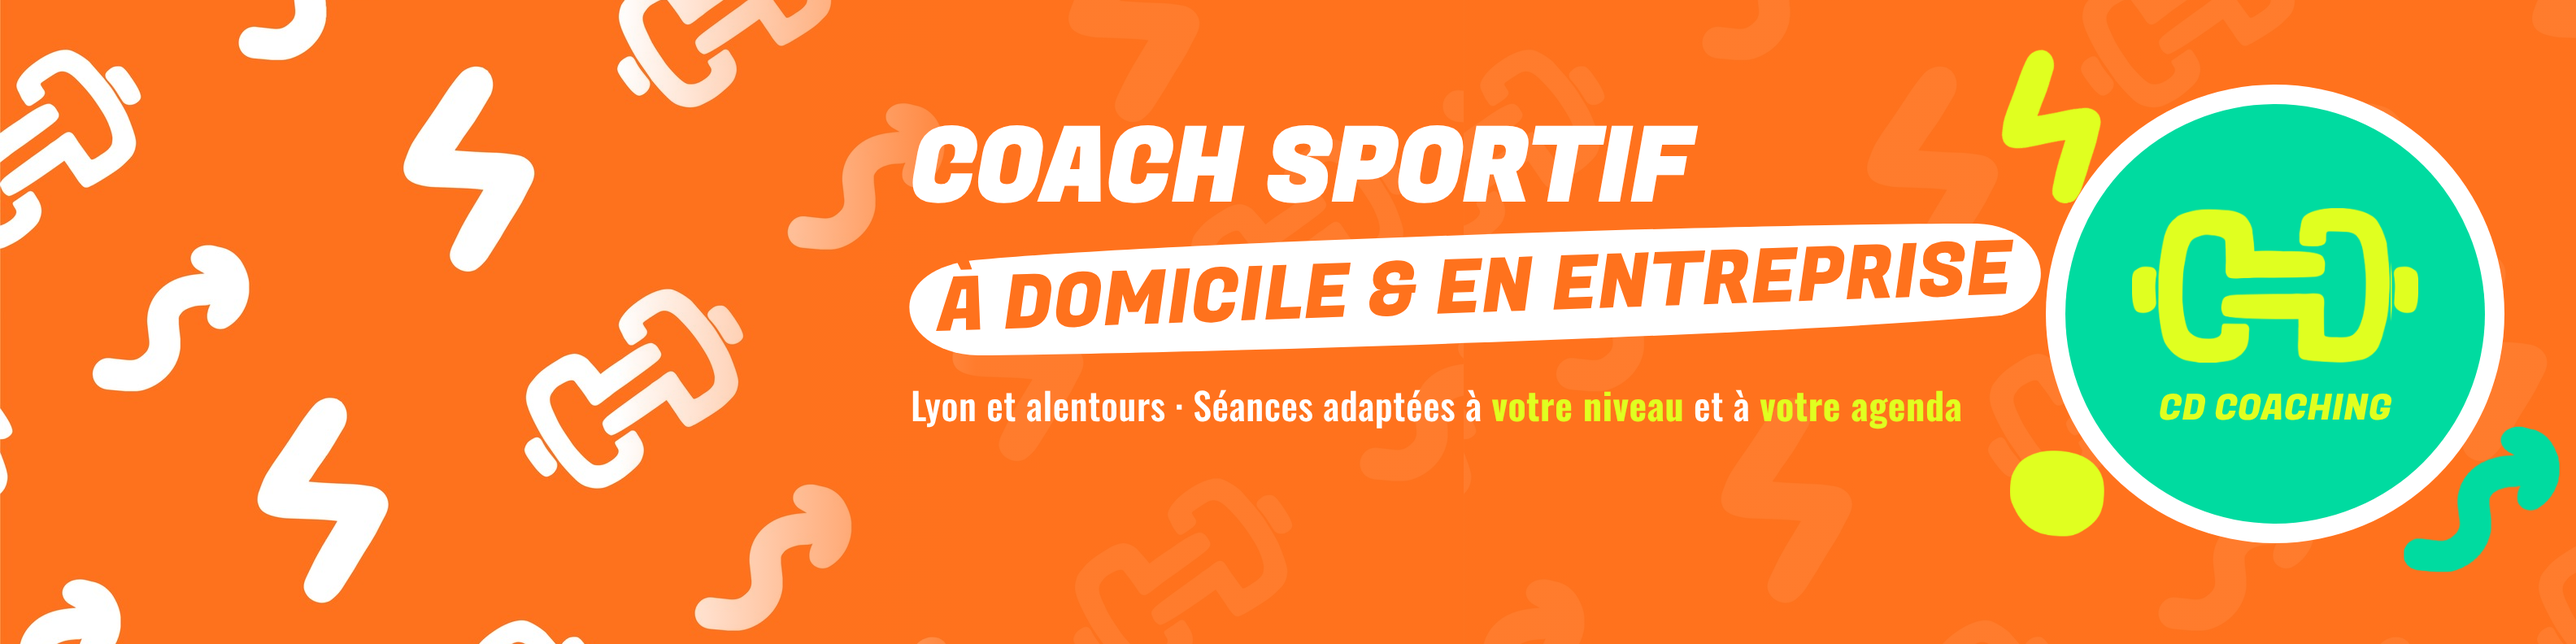
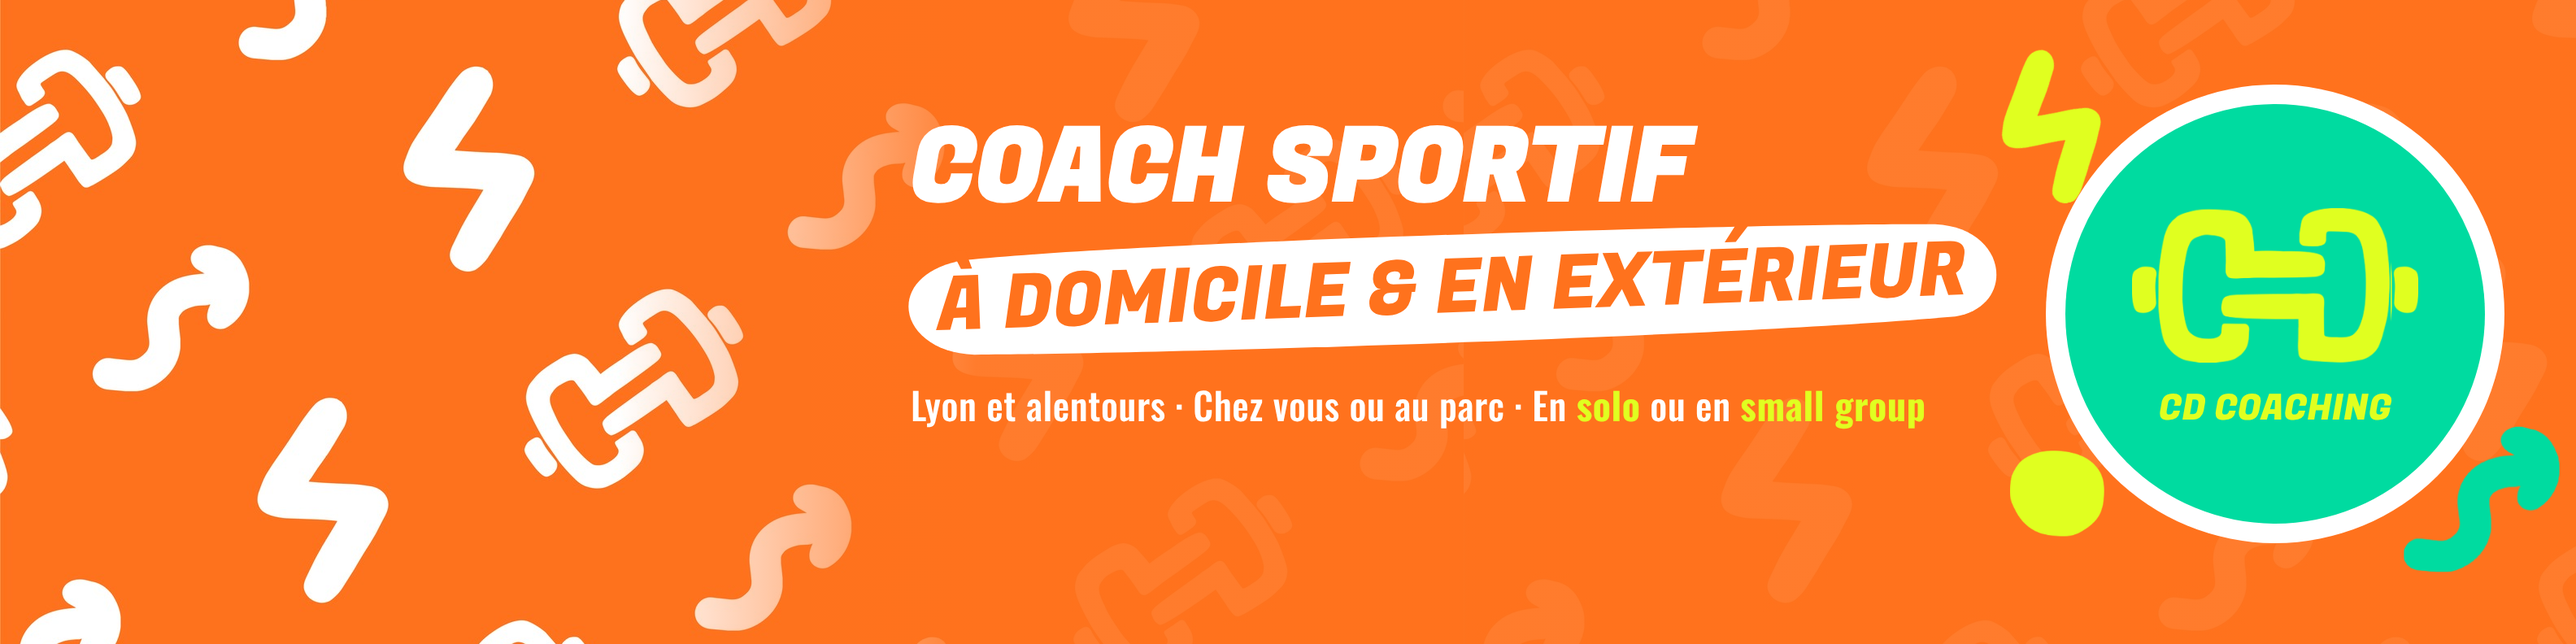
LinkedIn : bannières recentrées sur domicile et extérieur, solo ou small group
Claude-Session: https://claude.ai/code/session_01EmtKGbc4SRKwoQMSwJJ17h

Changed region(s): [[0.5625, 0.3333, 0.8125, 0.5152], [0.4688, 0.6061, 0.7812, 0.6667]]

diff --git a/linkedin/source/banniere.html b/linkedin/source/banniere.html
@@ -34,7 +34,7 @@ h1{margin-top:0;font-size:62px;color:var(--title)}
 <i class="mask fleche" style="left:1478px;top:262px;width:96px;height:90px;color:var(--a2)"></i>
 <div class="content">
   <h1 class="fz">Coach sportif</h1>
-  <div class="pill fz"><svg viewBox="0 0 200 60" preserveAspectRatio="none"><use href="#pp" fill="var(--pill)"/></svg><span>à domicile &amp; en entreprise</span></div>
-  <div class="sub os">Lyon et alentours · Séances adaptées à <b>votre niveau</b> et à <b>votre agenda</b></div>
+  <div class="pill fz"><svg viewBox="0 0 200 60" preserveAspectRatio="none"><use href="#pp" fill="var(--pill)"/></svg><span>à domicile &amp; en extérieur</span></div>
+  <div class="sub os">Lyon et alentours · Chez vous ou au parc · En <b>solo</b> ou en <b>small group</b></div>
 </div>
 </body></html>
